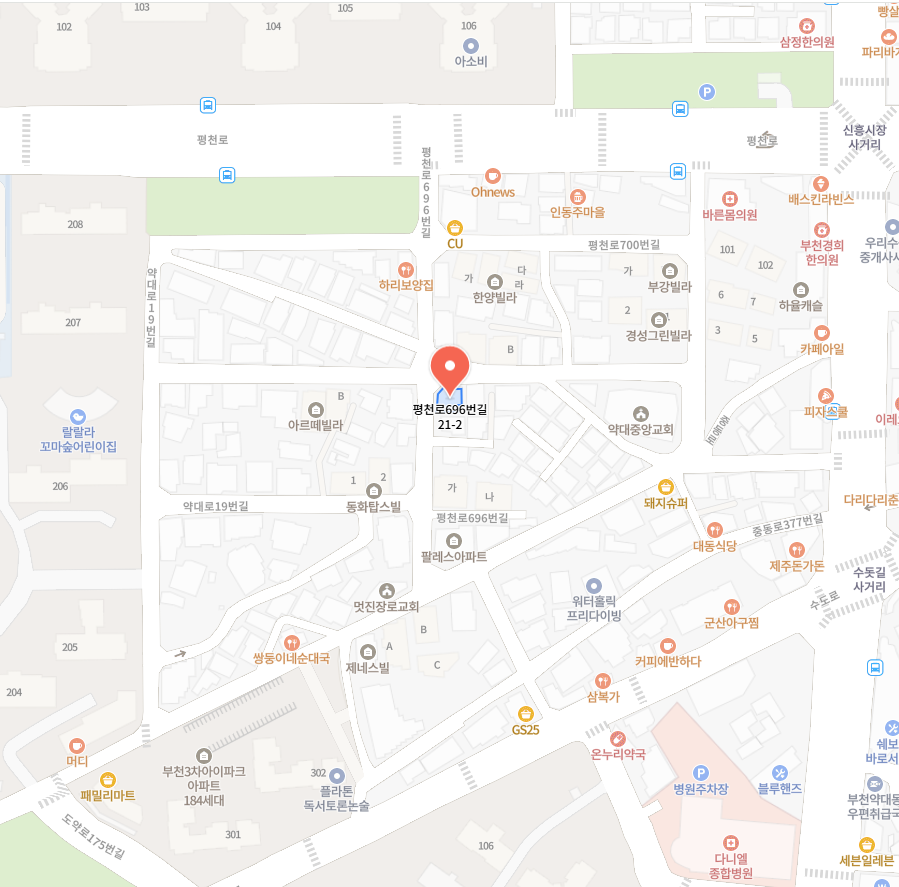
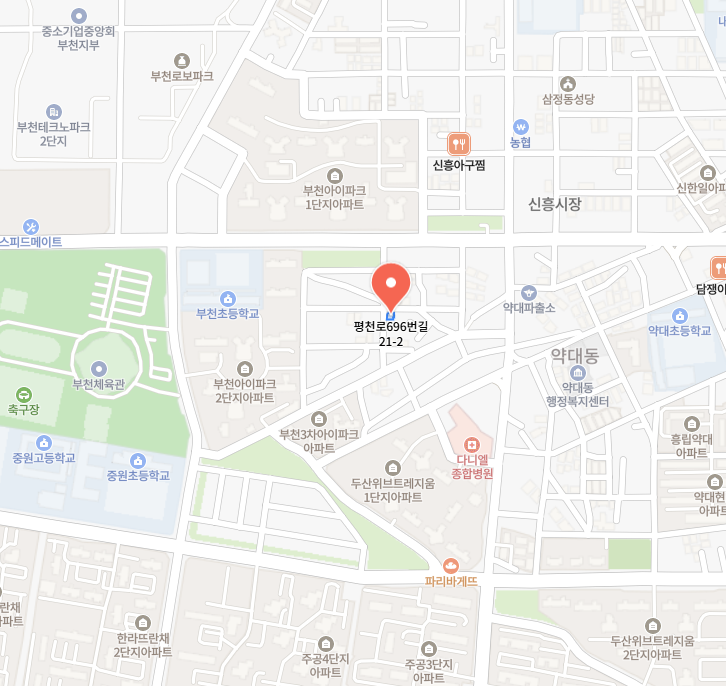
Add files via upload

diff --git a/style.css b/style.css
@@ -86,3 +86,30 @@ footer a{color:inherit;text-decoration:none}
   .map-visual.actual-map{height:auto}
   .map-visual.actual-map img{width:100%;height:auto}
 }
+
+/* v5.2 tighter map capture - desktop & mobile */
+.map-visual.actual-map{
+  width:100%;
+  height:auto;
+  overflow:hidden;
+  background:#fff;
+}
+.map-visual.actual-map img{
+  display:block;
+  width:100%;
+  height:auto;
+  object-fit:contain;
+  object-position:center center;
+}
+@media(max-width:800px){
+  .map-visual.actual-map{
+    width:100%;
+    height:auto;
+  }
+  .map-visual.actual-map img{
+    width:100%;
+    height:auto;
+    object-fit:contain;
+    object-position:center center;
+  }
+}
